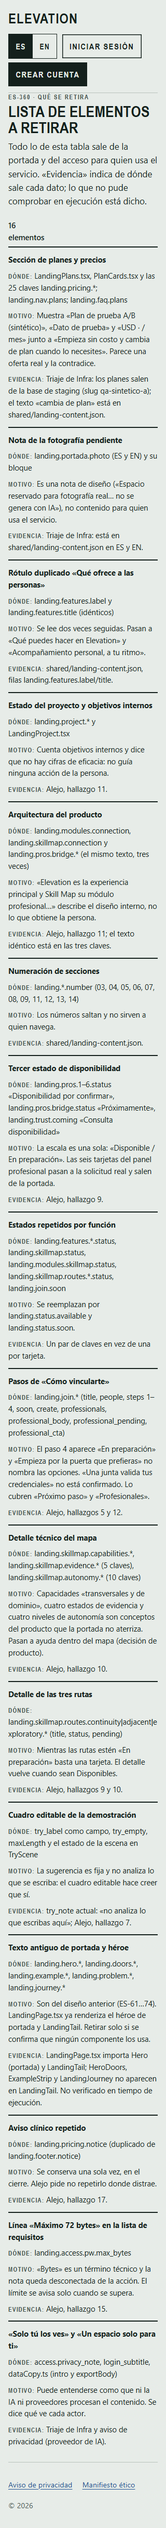
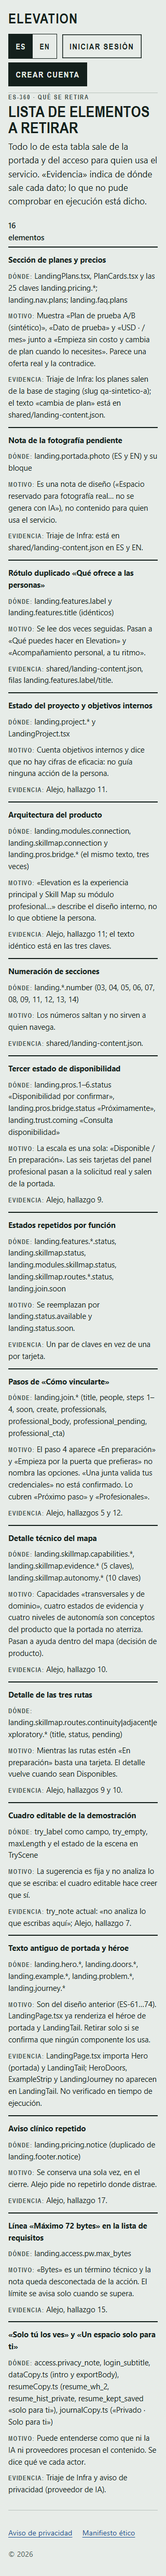
ES-360: textos de hojas de vida y diario sin «solo tú» (hallazgo QA-5), mapa y afirmaciones actualizados

Changed region(s): [[0.0312, 0.0, 0.9375, 0.9938], [0.875, 0.3727, 0.9062, 0.4037], [0.8438, 0.3106, 0.875, 0.3416]]

diff --git a/docs/ux/es-revision-copies/index.html b/docs/ux/es-revision-copies/index.html
@@ -362,6 +362,10 @@ const K = [
  ['landing.access.reset.send','c','Enviar enlace para restablecer la contraseña','Send link to reset your password'],
  // --- Mis datos (dataCopy.ts)
  ['data.intro','c','Aquí puedes llevarte una copia de tus datos o pedir que cerremos tu cuenta.','Here you can take a copy of your data or ask us to close your account.','Hoy termina en «Solo tú los ves».'],
+ ['resume_wh_2','c','Al proveedor de IA solo llega texto. El PDF original se guarda cifrado y tú puedes verlo, descargarlo o borrarlo.','Only text reaches the AI provider. The original PDF is stored encrypted, and you can view, download or delete it.','Hoy (resumeCopy.ts): «…y solo tú puedes verlo…». Se deja de afirmar exclusividad. Cifrado en reposo y quién del equipo accede: lo confirma Mauricio (técnica).'],
+ ['resume_hist_private','c','Están cifradas. No llegan a ningún profesional sin tu autorización aparte.','They are stored encrypted. They do not reach any professional without your separate permission.','Hoy: «Solo tú puedes verlas…». Que la autorización por profesional sea aparte y revocable lo verifica QA (caso de revocación).'],
+ ['resume_kept_saved','c','Tu hoja de vida quedó guardada y cifrada.','Your résumé was saved and encrypted.','Hoy: «…cifrada, solo para ti» / «…just for you».'],
+ ['journal.private (journalCopy.ts)','c','Privado · Tú decides si el asistente lo usa','Private · You decide whether the assistant uses it','Hoy: «Privado · Solo para ti». Cuadra con «Tú eliges si el asistente puede consultar una entrada». Mismo criterio que en registro.'],
  ['data.exportBody','c','Un archivo JSON con lo que guardamos de ti. Prepara el archivo y luego descárgalo; queda disponible unos minutos.','A JSON file with what we keep about you. Prepare the file, then download it; it stays available for a few minutes.','Hoy termina en «y solo tú lo ves». Se puede decir «solo tu cuenta puede descargarlo» si Tecnología lo confirma.']
 ]
 const KM = Object.fromEntries(K.map(r => [r[0], r]))
@@ -383,7 +387,7 @@ const RET = [
  ['Texto antiguo de portada y héroe', 'landing.hero.*, landing.doors.*, landing.example.*, landing.problem.*, landing.journey.*', 'Son del diseño anterior (ES-61…74). LandingPage.tsx ya renderiza el héroe de portada y LandingTail. Retirar solo si se confirma que ningún componente los usa.', 'LandingPage.tsx importa Hero (portada) y LandingTail; HeroDoors, ExampleStrip y LandingJourney no aparecen en LandingTail. No verificado en tiempo de ejecución.'],
  ['Aviso clínico repetido', 'landing.pricing.notice (duplicado de landing.footer.notice)', 'Se conserva una sola vez, en el cierre. Alejo pide no repetirlo donde distrae.', 'Alejo, hallazgo 17.'],
  ['Línea «Máximo 72 bytes» en la lista de requisitos', 'landing.access.pw.max_bytes', '«Bytes» es un término técnico y la nota queda desconectada de la acción. El límite se avisa solo cuando se supera.', 'Alejo, hallazgo 15.'],
- ['«Solo tú los ves» y «Un espacio solo para ti»', 'access.privacy_note, login_subtitle, dataCopy.ts (intro y exportBody)', 'Puede entenderse como que ni la IA ni proveedores procesan el contenido. Se dice qué ve cada actor.', 'Triaje de Infra y aviso de privacidad (proveedor de IA).']
+ ['«Solo tú los ves» y «Un espacio solo para ti»', 'access.privacy_note, login_subtitle, dataCopy.ts (intro y exportBody), resumeCopy.ts (resume_wh_2, resume_hist_private, resume_kept_saved «solo para ti»), journalCopy.ts («Privado · Solo para ti»)', 'Puede entenderse como que ni la IA ni proveedores procesan el contenido. Se dice qué ve cada actor.', 'Triaje de Infra y aviso de privacidad (proveedor de IA).']
 ]
 
 const CLAIMS = [
@@ -393,6 +397,7 @@ const CLAIMS = [
  ['Crear una cuenta es gratis', 'Registro (access.no_payment)', 'Que crear y mantener la cuenta no cuesta ni pasa sola a un plan de pago.', 'Alejo (negocio)'],
  ['Exportar y eliminar los datos', 'landing.features.data, landing.trust.4, «¿Puedo borrar mis datos?»', 'Estado real en producción, plazos y qué pasa con copias de respaldo (aviso §9 y §10).', 'Mauricio (técnica), abogado'],
  ['Límite de 72 bytes en la contraseña', 'Registro, landing.access.pw.too_long', 'Si el límite es técnico (hash). Si no lo es, se retira.', 'Mauricio (técnica)'],
+ ['Hojas de vida y diario: cifrados y sin acceso de profesionales no autorizados', 'resumeCopy.ts (resume_wh_2, resume_hist_private, resume_kept_saved), journalCopy.ts (chip «Privado»)', 'Cifrado en reposo; que un profesional solo vea una hoja con autorización aparte y revocable; que no se afirme exclusividad frente al equipo de Elevation ni al proveedor de IA (a la IA solo llega texto sin datos de contacto, según resume_wh_1).', 'Mauricio (técnica), QA-5 (caso de revocación), abogado'],
  ['Pausar, cerrar, borrar entradas y elegir una entrada para la conversación', 'landing.features.conversation y journal', 'Que cada acción exista en producción.', 'Mauricio (técnica)'],
  ['Contar una situación real y recibir sugerencias; aceptar o registrar', 'Hero, «Cómo funciona», CTA de la demostración', 'Flujo real de una cuenta: nombre exacto del control y qué se guarda.', 'Mauricio (técnica), Alejo'],
  ['Estado de cada función (Disponible / En preparación)', 'Todas las tarjetas de la portada', 'Lista de funciones de producto con cuatro datos por función (instructivo, paso 1).', 'Alejo (producto)'],
